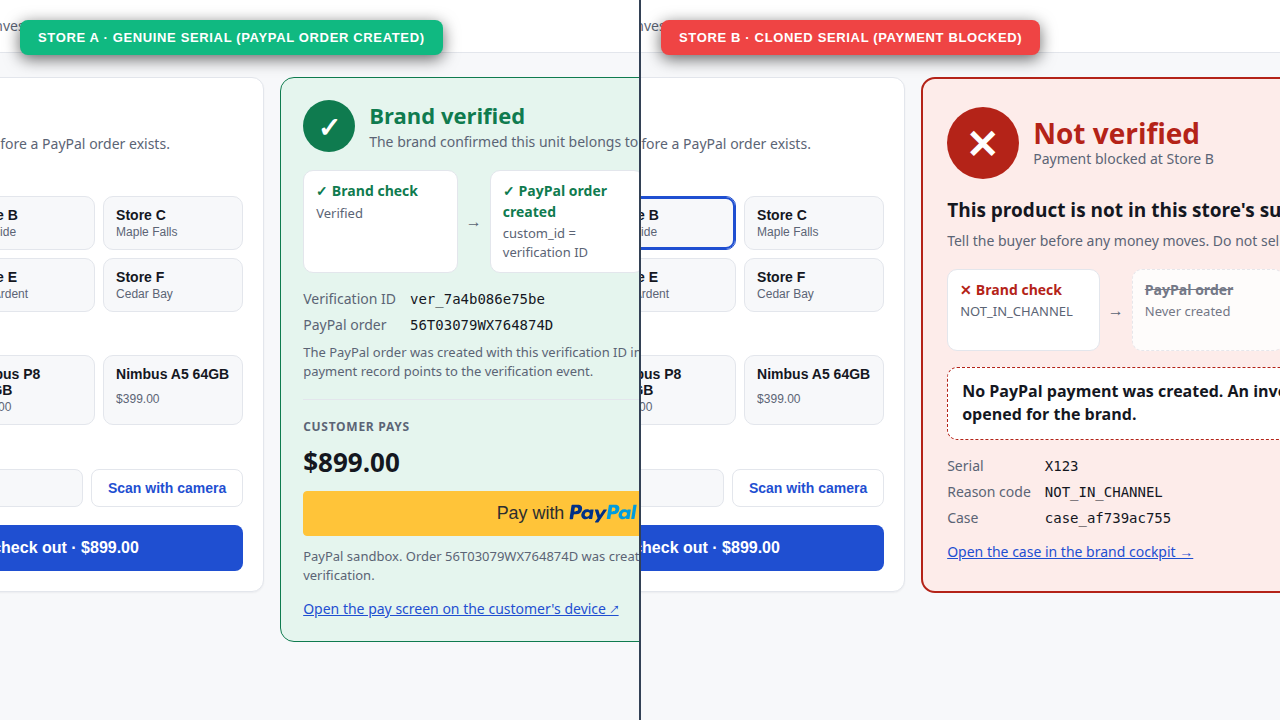
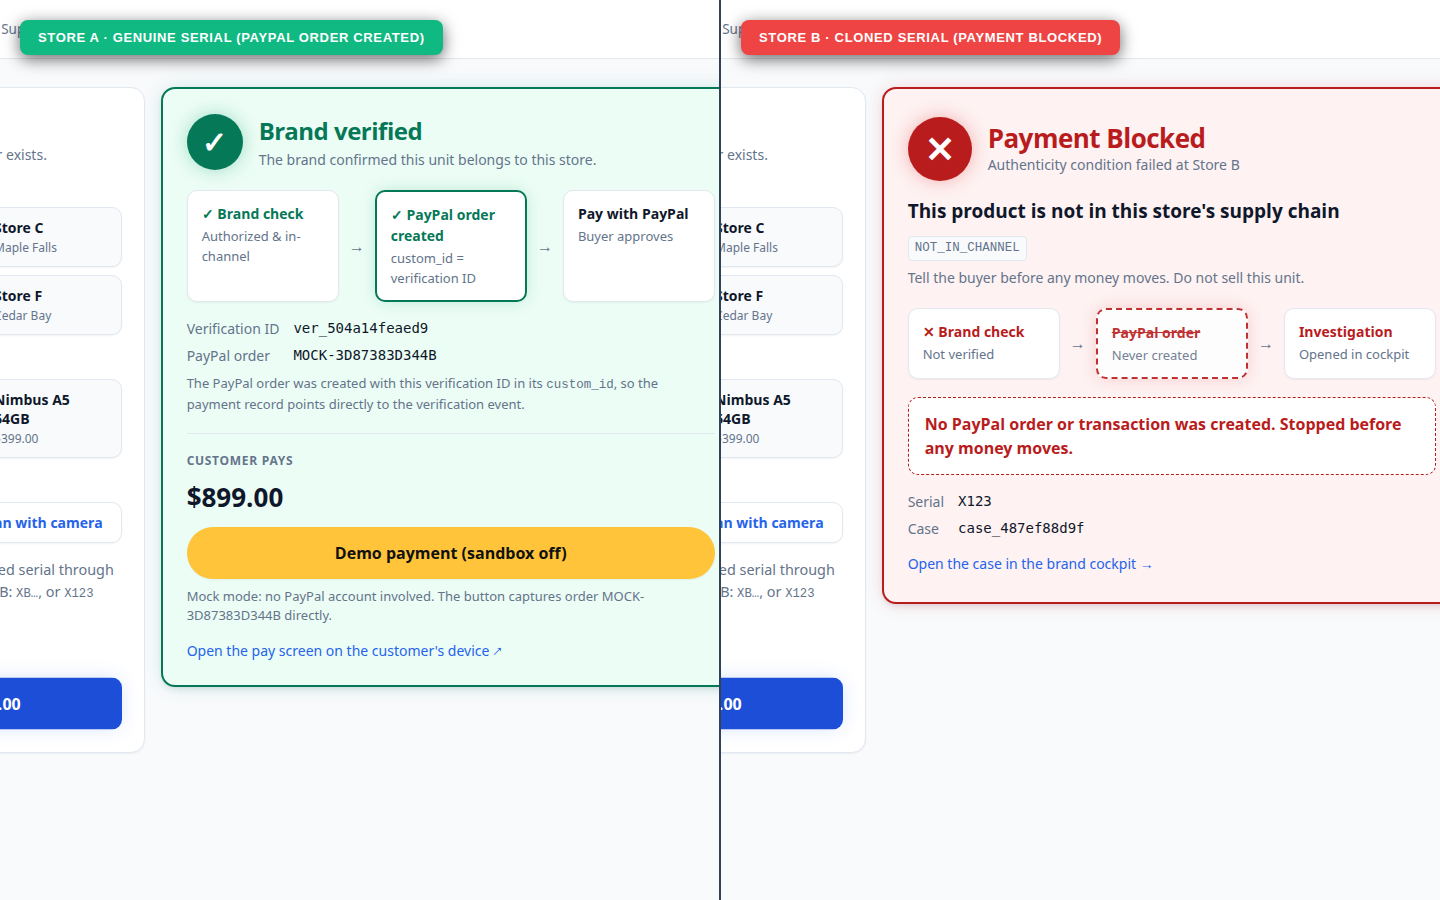
docs(media): refresh README screenshots for latest UX overhaul

Changed region(s): [[0.0, 0.0, 1.0, 0.8556], [0.7188, 0.7639, 0.9375, 0.825]]

diff --git a/scripts/screenshot_app.py b/scripts/screenshot_app.py
@@ -10,7 +10,7 @@ os.makedirs(DOCS_MEDIA, exist_ok=True)
 def main():
     with sync_playwright() as p:
         browser = p.chromium.launch()
-        context = browser.new_context(viewport={"width": 1280, "height": 720})
+        context = browser.new_context(viewport={"width": 1440, "height": 900}, color_scheme="light")
         page = context.new_page()
 
         hide_devtools = "nextjs-portal, [data-nextjs-dev-tools-button], #__next-build-watcher, [data-nextjs-toast] { display: none !important; }"
@@ -24,12 +24,11 @@ def main():
         page.fill("#serial", "X123")
         page.click("button:has-text('Verify and check out')")
         page.wait_for_selector("text=Brand verified", timeout=15000)
-        # Wait for PayPal container / buttons to load to avoid "Loading PayPal..."
         try:
             page.wait_for_selector("iframe, [class*='paypal-button'], text=Open the pay screen", timeout=6000)
         except Exception:
             pass
-        time.sleep(2.5)
+        time.sleep(2.0)
         pos_a_path = os.path.join(DOCS_MEDIA, "01_pos_verified.png")
         page.screenshot(path=pos_a_path)
 
@@ -38,8 +37,8 @@ def main():
         page.click("button:has-text('Store B')")
         page.fill("#serial", "X123")
         page.click("button:has-text('Verify and check out')")
-        page.wait_for_selector("text=Not verified", timeout=15000)
-        time.sleep(1.2)
+        page.wait_for_selector("text=Payment Blocked", timeout=15000)
+        time.sleep(1.5)
         pos_b_path = os.path.join(DOCS_MEDIA, "02_pos_blocked.png")
         page.screenshot(path=pos_b_path)
 
@@ -64,10 +63,10 @@ def main():
         <head>
           <style>
             * {{ margin: 0; padding: 0; box-sizing: border-box; }}
-            body {{ background: #0f172a; display: flex; width: 1280px; height: 720px; overflow: hidden; font-family: -apple-system, BlinkMacSystemFont, "Segoe UI", Roboto, sans-serif; }}
+            body {{ background: #0f172a; display: flex; width: 1440px; height: 900px; overflow: hidden; font-family: -apple-system, BlinkMacSystemFont, "Segoe UI", Roboto, sans-serif; }}
             .split {{ flex: 1; height: 100%; border-right: 2px solid #334155; position: relative; overflow: hidden; display: flex; }}
             .split:last-child {{ border-right: none; }}
-            img {{ width: 100%; height: 100%; object-fit: cover; object-position: 50% 12%; }}
+            img {{ width: 100%; height: 100%; object-fit: cover; object-position: 72% 16%; }}
             .badge {{ position: absolute; top: 20px; left: 20px; padding: 10px 18px; border-radius: 8px; font-weight: 700; font-size: 13px; text-transform: uppercase; letter-spacing: 0.05em; box-shadow: 0 4px 16px rgba(0,0,0,0.6); z-index: 10; }}
             .badge-verified {{ background: #10b981; color: #fff; }}
             .badge-blocked {{ background: #ef4444; color: #fff; }}
@@ -95,13 +94,20 @@ def main():
         print("Capturing 04_cockpit_case...")
         if case_id:
             page.goto(f"http://localhost:3000/cockpit/cases/{case_id}")
+            # Wait for mock worker to process case
+            for _ in range(20):
+                time.sleep(1)
+                page.reload()
+                page.add_style_tag(content=hide_devtools)
+                if page.query_selector("text=Offline mock run, not AI"):
+                    break
         else:
             page.goto("http://localhost:3000/cockpit")
             time.sleep(1.0)
             cl = page.query_selector("a[href*='/cockpit/cases/']")
             if cl:
                 cl.click()
-        page.add_style_tag(content=hide_devtools)
+                page.add_style_tag(content=hide_devtools)
         time.sleep(2.0)
         page.screenshot(path=os.path.join(DOCS_MEDIA, "04_cockpit_case.png"))
 
@@ -110,10 +116,8 @@ def main():
         page.goto("http://localhost:3000/cockpit/console")
         page.add_style_tag(content=hide_devtools)
         time.sleep(1.5)
-        # Click the PayPal demographic example question (Brand Insights plans and runs it in one step)
         pp_btn = page.wait_for_selector("button:has-text('Which age bands buy')", timeout=10000)
         pp_btn.click()
-        # Wait for the answer with its "vs. survey" line
         try:
             page.wait_for_selector("text=A survey: weeks", timeout=15000)
         except Exception:
@@ -125,7 +129,7 @@ def main():
         print("Capturing 06_supply_chain...")
         page.goto("http://localhost:3000/cockpit/supply-chain")
         page.add_style_tag(content=hide_devtools)
-        time.sleep(3.0)
+        time.sleep(3.5)
         page.screenshot(path=os.path.join(DOCS_MEDIA, "06_supply_chain.png"))
 
         # 7. 07_story_hook.png: Story Card Hook
@@ -133,7 +137,7 @@ def main():
         page.goto("http://localhost:3000/story?card=hook")
         page.add_style_tag(content=hide_devtools)
         page.wait_for_selector("body[data-ready='1']", timeout=5000)
-        time.sleep(0.5)
+        time.sleep(1.0)
         page.screenshot(path=os.path.join(DOCS_MEDIA, "07_story_hook.png"))
 
         print("All screenshots captured successfully to docs/media/!")
@@ -141,3 +145,4 @@ def main():
 
 if __name__ == "__main__":
     main()
+
